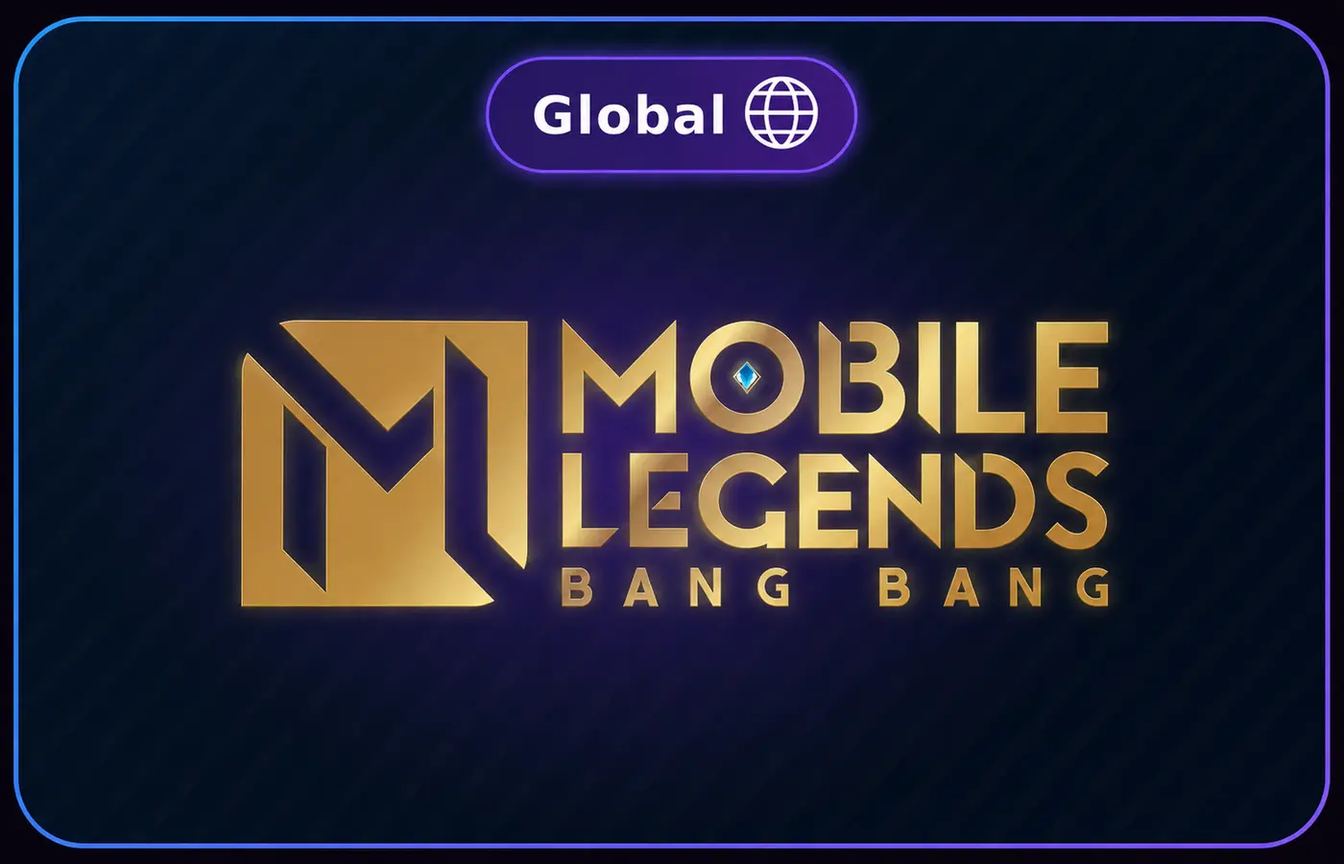
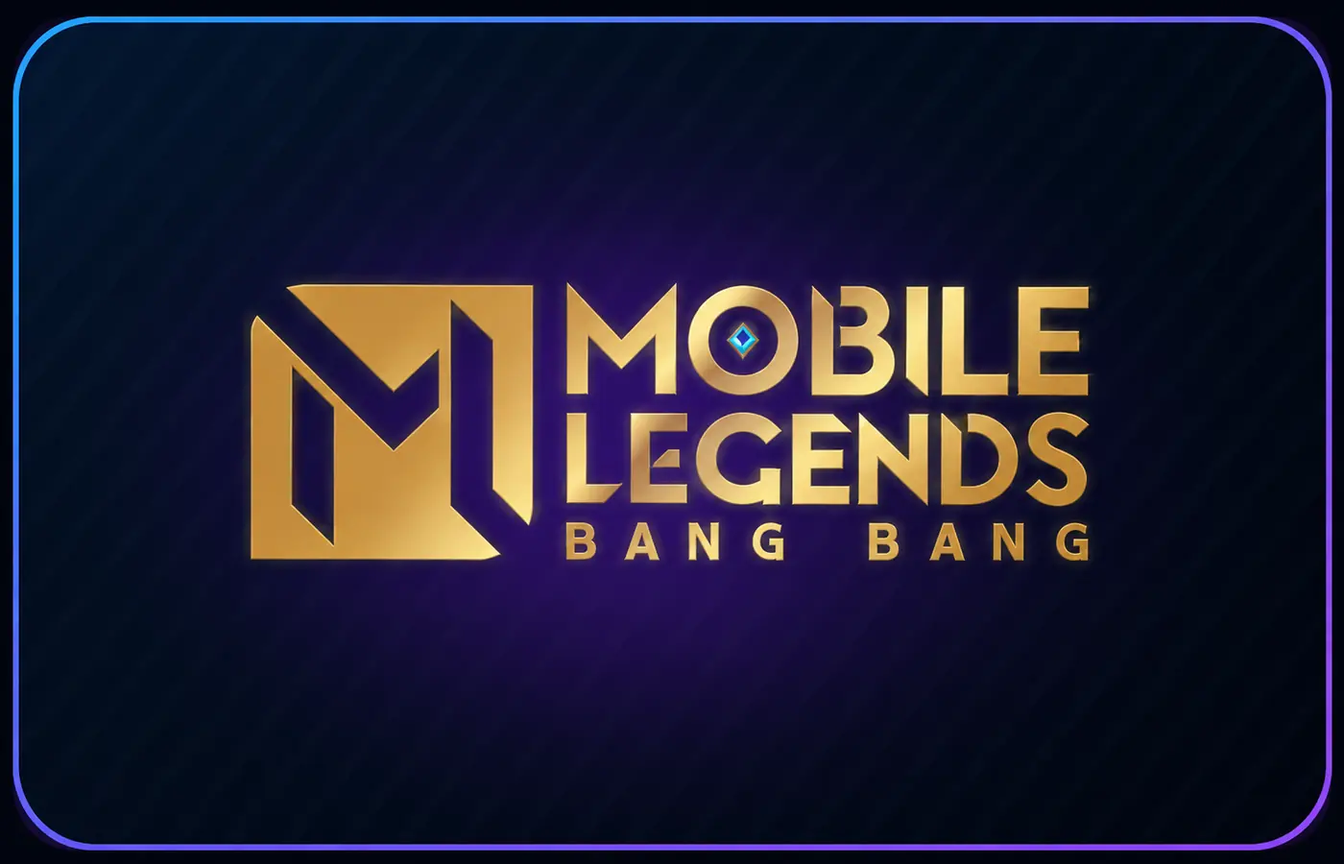
Add files via upload

diff --git a/mobile-legends.html b/mobile-legends.html
@@ -6,7 +6,7 @@
 <meta content="width=device-width,initial-scale=1,viewport-fit=cover" name="viewport"/>
 <meta content="#07101f" name="theme-color"/>
 <title>شحن ألماس Mobile Legends عبر Player ID وServer ID</title>
-<meta content="اشحن ألماس واشتراكات Mobile Legends Global مباشرة عبر Player ID وServer ID، واختر العرض المناسب واطلب بسهولة عبر واتساب أو تلغرام." name="description"/>
+<meta content="اشحن ألماس واشتراكات Mobile Legends مباشرة عبر Player ID وServer ID، واختر العرض المناسب واطلب بسهولة عبر واتساب أو تلغرام." name="description"/>
 <meta content="index, follow, max-image-preview:large, max-snippet:-1, max-video-preview:-1" name="robots"/>
 <link href="https://topupmorocco.com/mobile-legends.html" rel="canonical"/>
 <link href="https://topupmorocco.com/mobile-legends.html" hreflang="ar-MA" rel="alternate"/>
@@ -19,12 +19,12 @@
 <meta content="ar_MA" property="og:locale"/>
 <meta content="TopUpMorocco" property="og:site_name"/>
 <meta content="شحن ألماس Mobile Legends عبر Player ID وServer ID" property="og:title"/>
-<meta content="اشحن ألماس واشتراكات Mobile Legends Global مباشرة عبر Player ID وServer ID، واختر العرض المناسب واطلب بسهولة عبر واتساب أو تلغرام." property="og:description"/>
+<meta content="اشحن ألماس واشتراكات Mobile Legends مباشرة عبر Player ID وServer ID، واختر العرض المناسب واطلب بسهولة عبر واتساب أو تلغرام." property="og:description"/>
 <meta content="https://topupmorocco.com/mobile-legends.html" property="og:url"/>
 <meta content="https://topupmorocco.com/mobile-legends.webp" property="og:image"/>
 <meta content="summary_large_image" name="twitter:card"/>
 <meta content="شحن ألماس Mobile Legends عبر Player ID وServer ID" name="twitter:title"/>
-<meta content="اشحن ألماس واشتراكات Mobile Legends Global مباشرة عبر Player ID وServer ID، واختر العرض المناسب واطلب بسهولة عبر واتساب أو تلغرام." name="twitter:description"/>
+<meta content="اشحن ألماس واشتراكات Mobile Legends مباشرة عبر Player ID وServer ID، واختر العرض المناسب واطلب بسهولة عبر واتساب أو تلغرام." name="twitter:description"/>
 <meta content="https://topupmorocco.com/mobile-legends.webp" name="twitter:image"/>
 <style>
 :root{--bg:#050914;--panel:#0b1323;--line:#223453;--text:#f7f9ff;--muted:#a8b4ca;--purple:#8b4cff;--purple2:#6330d7;--green:#20c76a;--yellow:#ffc83d;--shadow:0 18px 55px #0008}
@@ -103,8 +103,8 @@ html[lang="fr"] .pack{direction:ltr}
     {
       "@type": "Product",
       "@id": "https://topupmorocco.com/mobile-legends.html#product",
-      "name": "شحن ألماس واشتراكات Mobile Legends Global",
-      "description": "اشحن ألماس واشتراكات Mobile Legends Global مباشرة عبر Player ID وServer ID، واختر العرض المناسب واطلب بسهولة عبر واتساب أو تلغرام.",
+      "name": "شحن ألماس واشتراكات Mobile Legends",
+      "description": "اشحن ألماس واشتراكات Mobile Legends مباشرة عبر Player ID وServer ID، واختر العرض المناسب واطلب بسهولة عبر واتساب أو تلغرام.",
       "image": [
         "https://topupmorocco.com/mobile-legends.webp"
       ],
@@ -120,9 +120,9 @@ html[lang="fr"] .pack{direction:ltr}
         "@type": "AggregateOffer",
         "url": "https://topupmorocco.com/mobile-legends.html",
         "priceCurrency": "MAD",
-        "lowPrice": "6",
-        "highPrice": "143",
-        "offerCount": "15",
+        "lowPrice": "10",
+        "highPrice": "390",
+        "offerCount": "29",
         "availability": "https://schema.org/InStock"
       },
       "inLanguage": "ar-MA"
@@ -243,29 +243,43 @@ window.loadTopUpAnalytics=function(){
 </div></header>
 <main>
 <div class="wrap breadcrumb"><a href="/"><span data-ar="الرئيسية" data-fr="Accueil">الرئيسية</span></a><span data-ar="← شحن Mobile Legends" data-fr="← Recharge Mobile Legends">← شحن Mobile Legends</span></div>
-<section class="hero"><div class="wrap"><div class="hero-card"><div class="copy"><span class="tag">MOBILE LEGENDS • GLOBAL</span><h1>شحن ألماس موبايل ليجند عبر <bdi dir="ltr">Player ID</bdi> و<bdi dir="ltr">Server ID</bdi></h1><p><span data-ar="اشحن ألماس واشتراكات Mobile Legends Global مباشرة عبر Player ID وServer ID. تأكد من صحة المعلومات قبل إرسال الطلب." data-fr="Rechargez les diamants et abonnements Mobile Legends Global directement via le Player ID et le Server ID. Vérifiez vos informations avant d’envoyer la commande.">اشحن ألماس واشتراكات Mobile Legends Global مباشرة عبر Player ID وServer ID. تأكد من صحة المعلومات قبل إرسال الطلب.</span></p></div><div aria-label="Mobile Legends Global" class="visual"><img alt="شحن ألماس Mobile Legends Global عبر Player ID وServer ID - TopUpMorocco" class="product-art-page" decoding="async" src="mobile-legends.webp" width="1400" height="900" srcset="mobile-legends-800.webp 800w, mobile-legends.webp 1400w" fetchpriority="high" sizes="(max-width: 820px) 92vw, 520px"/></div></div></div></section>
+<section class="hero"><div class="wrap"><div class="hero-card"><div class="copy"><span class="tag">MOBILE LEGENDS</span><h1>شحن ألماس موبايل ليجند عبر <bdi dir="ltr">Player ID</bdi> و<bdi dir="ltr">Server ID</bdi></h1><p><span data-ar="اشحن ألماس واشتراكات Mobile Legends مباشرة عبر Player ID وServer ID. تأكد من صحة المعلومات قبل إرسال الطلب." data-fr="Rechargez les diamants et abonnements Mobile Legends directement via le Player ID et le Server ID. Vérifiez vos informations avant d’envoyer la commande.">اشحن ألماس واشتراكات Mobile Legends مباشرة عبر Player ID وServer ID. تأكد من صحة المعلومات قبل إرسال الطلب.</span></p></div><div aria-label="Mobile Legends" class="visual"><img alt="شحن ألماس Mobile Legends عبر Player ID وServer ID - TopUpMorocco" class="product-art-page" decoding="async" src="mobile-legends.webp" width="1400" height="900" srcset="mobile-legends-800.webp 800w, mobile-legends.webp 1400w" fetchpriority="high" sizes="(max-width: 820px) 92vw, 520px"/></div></div></div></section>
 <section class="section"><div class="wrap"><div class="heading"><em><span data-ar="العروض المتاحة" data-fr="Offres disponibles">العروض المتاحة</span></em><h2><span data-ar="اختر عرض Mobile Legends" data-fr="Choisissez votre offre Mobile Legends">اختر عرض Mobile Legends</span></h2><p><span data-ar="الأسعار بالدرهم المغربي." data-fr="Prix en dirhams marocains.">الأسعار بالدرهم المغربي.</span></p></div><div class="order-panel"><div class="panel">
 <div class="packs" id="packs">
 <h3 class="pack-category">ألماس Mobile Legends</h3>
-<button class="pack" data-value="22 💎 — 6 DH" type="button"><b dir="auto">22 💎</b><span>6 DH</span></button>
-<button class="pack" data-value="56 💎 — 13 DH" type="button"><b dir="auto">56 💎</b><span>13 DH</span></button>
-<button class="pack" data-value="86 💎 — 18 DH" type="button"><b dir="auto">86 💎</b><span>18 DH</span></button>
-<button class="pack" data-value="112 💎 — 26 DH" type="button"><b dir="auto">112 💎</b><span>26 DH</span></button>
-<button class="pack" data-value="140 💎 — 29 DH" type="button"><b dir="auto">140 💎</b><span>29 DH</span></button>
-<button class="pack" data-value="170 💎 — 33 DH" type="button"><b dir="auto">170 💎</b><span>33 DH</span></button>
-<button class="pack" data-value="240 💎 — 43 DH" type="button"><b dir="auto">240 💎</b><span>43 DH</span></button>
-<button class="pack" data-value="296 💎 — 52 DH" type="button"><b dir="auto">296 💎</b><span>52 DH</span></button>
-<button class="pack" data-value="408 💎 — 70 DH" type="button"><b dir="auto">408 💎</b><span>70 DH</span></button>
-<button class="pack" data-value="568 💎 — 93 DH" type="button"><b dir="auto">568 💎</b><span>93 DH</span></button>
-<button class="pack" data-value="875 💎 — 143 DH" type="button"><b dir="auto">875 💎</b><span>143 DH</span></button>
+<button class="pack" data-value="55 💎 — 10 DH" type="button"><b dir="auto">55 💎</b><span>10 DH</span></button>
+<button class="pack" data-value="86 💎 — 13 DH" type="button"><b dir="auto">86 💎</b><span>13 DH</span></button>
+<button class="pack" data-value="165 💎 — 28 DH" type="button"><b dir="auto">165 💎</b><span>28 DH</span></button>
+<button class="pack" data-value="275 💎 — 42 DH" type="button"><b dir="auto">275 💎</b><span>42 DH</span></button>
+<button class="pack" data-value="343 💎 — 51 DH" type="button"><b dir="auto">343 💎</b><span>51 DH</span></button>
+<button class="pack" data-value="429 💎 — 63 DH" type="button"><b dir="auto">429 💎</b><span>63 DH</span></button>
+<button class="pack" data-value="565 💎 — 80 DH" type="button"><b dir="auto">565 💎</b><span>80 DH</span></button>
+<button class="pack" data-value="600 💎 — 85 DH" type="button"><b dir="auto">600 💎</b><span>85 DH</span></button>
+<button class="pack" data-value="792 💎 — 110 DH" type="button"><b dir="auto">792 💎</b><span>110 DH</span></button>
+<button class="pack" data-value="878 💎 — 122 DH" type="button"><b dir="auto">878 💎</b><span>122 DH</span></button>
+<button class="pack" data-value="963 💎 — 132 DH" type="button"><b dir="auto">963 💎</b><span>132 DH</span></button>
+<button class="pack" data-value="1060 💎 — 146 DH" type="button"><b dir="auto">1060 💎</b><span>146 DH</span></button>
+<button class="pack" data-value="1136 💎 — 157 DH" type="button"><b dir="auto">1136 💎</b><span>157 DH</span></button>
+<button class="pack" data-value="1222 💎 — 168 DH" type="button"><b dir="auto">1222 💎</b><span>168 DH</span></button>
+<button class="pack" data-value="1308 💎 — 180 DH" type="button"><b dir="auto">1308 💎</b><span>180 DH</span></button>
+<button class="pack" data-value="1498 💎 — 202 DH" type="button"><b dir="auto">1498 💎</b><span>202 DH</span></button>
+<button class="pack" data-value="1584 💎 — 214 DH" type="button"><b dir="auto">1584 💎</b><span>214 DH</span></button>
+<button class="pack" data-value="1670 💎 — 226 DH" type="button"><b dir="auto">1670 💎</b><span>226 DH</span></button>
+<button class="pack" data-value="1756 💎 — 237 DH" type="button"><b dir="auto">1756 💎</b><span>237 DH</span></button>
+<button class="pack" data-value="1842 💎 — 249 DH" type="button"><b dir="auto">1842 💎</b><span>249 DH</span></button>
+<button class="pack" data-value="1928 💎 — 260 DH" type="button"><b dir="auto">1928 💎</b><span>260 DH</span></button>
+<button class="pack" data-value="2195 💎 — 285 DH" type="button"><b dir="auto">2195 💎</b><span>285 DH</span></button>
+<button class="pack" data-value="2367 💎 — 308 DH" type="button"><b dir="auto">2367 💎</b><span>308 DH</span></button>
+<button class="pack" data-value="2625 💎 — 344 DH" type="button"><b dir="auto">2625 💎</b><span>344 DH</span></button>
+<button class="pack" data-value="2987 💎 — 390 DH" type="button"><b dir="auto">2987 💎</b><span>390 DH</span></button>
 <h3 class="pack-category">اشتراكات Mobile Legends</h3>
-<button class="pack" data-value="Weekly Elite Pack — 13 DH" type="button"><b dir="auto">Weekly Elite Pack</b><span>13 DH</span></button>
+<button class="pack" data-value="Weekly Elite Pack — 12 DH" type="button"><b dir="auto">Weekly Elite Pack</b><span>12 DH</span></button>
 <button class="pack" data-value="Weekly Diamond Pass — 20 DH" type="button"><b dir="auto">Weekly Diamond Pass</b><span>20 DH</span></button>
-<button class="pack" data-value="Monthly Elite Pack — 49 DH" type="button"><b dir="auto">Monthly Elite Pack</b><span>49 DH</span></button>
-<button class="pack" data-value="Twilight Pass — 109 DH" type="button"><b dir="auto">Twilight Pass</b><span>109 DH</span></button>
+<button class="pack" data-value="Monthly Elite Pack — 44 DH" type="button"><b dir="auto">Monthly Elite Pack</b><span>44 DH</span></button>
+<button class="pack" data-value="Twilight Pass — 83 DH" type="button"><b dir="auto">Twilight Pass</b><span>83 DH</span></button>
 </div><div class="bulk"><span>ⓘ</span><div style="display:grid;grid-template-columns:1fr 1fr;gap:16px;align-items:center">
 <div><strong><span data-ar="خصومات خاصة للطلبات الكبيرة." data-fr="Réductions spéciales pour les grosses commandes.">خصومات خاصة للطلبات الكبيرة.</span></strong><br><span data-ar="تواصل معنا عبر واتساب أو تلغرام للحصول على أفضل الأسعار." data-fr="Contactez-nous via WhatsApp ou Telegram pour obtenir les meilleurs prix.">تواصل معنا عبر واتساب أو تلغرام للحصول على أفضل الأسعار.</span></div>
-<div style="text-align:center"><strong><span data-ar="معلومة مهمة: الشحن مخصص لحسابات Mobile Legends Global ويتم مباشرة عبر Player ID وServer ID. يرجى التأكد من صحة المعلومات قبل إرسال الطلب." data-fr="Information importante : la recharge est destinée aux comptes Mobile Legends Global et s’effectue directement via le Player ID et le Server ID. Veuillez vérifier l’exactitude des informations avant d’envoyer la commande.">معلومة مهمة: الشحن مخصص لحسابات Mobile Legends Global ويتم مباشرة عبر Player ID وServer ID. يرجى التأكد من صحة المعلومات قبل إرسال الطلب.</span></strong></div>
+<div style="text-align:center"><strong><span data-ar="معلومة مهمة: يتم الشحن مباشرة عبر Player ID وServer ID. يرجى التأكد من صحة المعلومات قبل إرسال الطلب." data-fr="Information importante : la recharge s’effectue directement via le Player ID et le Server ID. Veuillez vérifier l’exactitude des informations avant d’envoyer la commande.">معلومة مهمة: يتم الشحن مباشرة عبر Player ID وServer ID. يرجى التأكد من صحة المعلومات قبل إرسال الطلب.</span></strong></div>
 </div></div></div>
 <aside class="panel"><div class="form"><label for="playerId">Player ID *</label><input aria-required="true" autocomplete="off" id="playerId" type="text" spellcheck="false" placeholder="أدخل Player ID" required/><label for="serverId">Server ID *</label><input aria-required="true" autocomplete="off" id="serverId" type="text" spellcheck="false" placeholder="أدخل Server ID" required/><p class="order-options-label"><span data-ar="اطلب عبر واتساب أو تلغرام" data-fr="Commandez via WhatsApp ou Telegram">اطلب عبر واتساب أو تلغرام</span></p><div class="order-actions" role="group" aria-label="اختر واتساب أو تلغرام"><button class="order order-whatsapp" id="order" type="button" data-channel="whatsapp" aria-label="اطلب عبر واتساب"><svg viewBox="0 0 24 24" aria-hidden="true"><path d="M12 2a9.84 9.84 0 0 0-8.42 14.93L2 22l5.2-1.52A9.93 9.93 0 1 0 12 2Zm0 17.98a8 8 0 0 1-4.08-1.12l-.29-.17-3.08.9.92-3-.19-.31A8 8 0 1 1 12 19.98Zm4.39-5.98c-.24-.12-1.42-.7-1.64-.78-.22-.08-.38-.12-.54.12-.16.24-.62.78-.76.94-.14.16-.28.18-.52.06-.24-.12-1.01-.37-1.93-1.19-.71-.64-1.2-1.42-1.34-1.66-.14-.24-.01-.37.1-.49.11-.11.24-.28.36-.42.12-.14.16-.24.24-.4.08-.16.04-.3-.02-.42-.06-.12-.54-1.3-.74-1.78-.2-.47-.4-.41-.54-.42h-.46c-.16 0-.42.06-.64.3-.22.24-.84.82-.84 2 0 1.18.86 2.32.98 2.48.12.16 1.69 2.58 4.1 3.62.57.25 1.02.4 1.37.51.58.18 1.1.16 1.51.1.46-.07 1.42-.58 1.62-1.14.2-.56.2-1.04.14-1.14-.06-.1-.22-.16-.46-.28Z"/></svg><span data-ar="واتساب" data-fr="WhatsApp">واتساب</span></button><button class="order order-telegram" id="orderTelegram" type="button" data-channel="telegram" aria-label="اطلب عبر تلغرام"><svg viewBox="0 0 24 24" aria-hidden="true"><path d="M21.6 2.4 2.9 9.6c-1.3.5-1.3 1.2-.2 1.5l4.8 1.5 1.8 5.6c.2.7.1 1 .9 1l2.7-2.6 5.6 4.1c1 .6 1.7.3 2-.9L24 3.6c.4-1.7-.6-2.5-2.4-1.2ZM9.4 12.3l9.4-5.9c.5-.3.9-.1.5.2l-7.7 7-.3 3.6-1.9-4.9Z"/></svg><span data-ar="تلغرام" data-fr="Telegram">تلغرام</span></button></div><p class="msg" id="msg"></p><p class="note"><span data-ar="سيتم فتح التطبيق الذي تختاره برسالة جاهزة تتضمن العرض وPlayer ID وServer ID." data-fr="L’application choisie s’ouvrira avec un message contenant l’offre, le Player ID et le Server ID.">سيتم فتح التطبيق الذي تختاره برسالة جاهزة تتضمن العرض وPlayer ID وServer ID.</span></p></div><ul class="features"><li><span data-ar="⚡ إرسال الطلب بخطوات قليلة" data-fr="⚡ Commande en quelques étapes">⚡ إرسال الطلب بخطوات قليلة</span></li><li><span data-ar="🛡 مراجعة Player ID وServer ID قبل الشحن" data-fr="🛡 Vérification du Player ID et du Server ID avant la recharge">🛡 مراجعة Player ID وServer ID قبل الشحن</span></li><li><span data-ar="💬 متابعة الطلب مباشرة عبر واتساب أو تلغرام" data-fr="💬 Suivi direct de la commande via WhatsApp ou Telegram">💬 متابعة الطلب مباشرة عبر واتساب أو تلغرام</span></li></ul></aside></div>
 <div class="payments"><div class="heading"><em><span data-ar="طرق الدفع" data-fr="Moyens de paiement">طرق الدفع</span></em></div><div class="pay-list"><span>CIH Bank</span><span>Attijariwafa Bank</span><span>Cash Plus</span><span>Orange Money</span><span>BMCE | BANK OF AFRICA</span><span>PayPal</span></div></div>
@@ -290,7 +304,7 @@ window.loadTopUpAnalytics=function(){
 <script>
 const phone="212773125830";let selected="";const packs=document.getElementById("packs"),msg=document.getElementById("msg"),playerId=document.getElementById("playerId"),serverId=document.getElementById("serverId");
 packs.addEventListener("click",e=>{const b=e.target.closest(".pack");if(!b)return;packs.querySelectorAll(".pack").forEach(x=>x.classList.remove("active"));b.classList.add("active");selected=b.dataset.value;msg.textContent=""});
-document.getElementById("order").addEventListener("click",()=>{const player=playerId.value.trim(),server=serverId.value.trim();if(!selected){msg.textContent="اختر العرض أولًا.";return}if(!player){msg.textContent="أدخل Player ID.";playerId.focus();return}if(!server){msg.textContent="أدخل Server ID.";serverId.focus();return}const text=`السلام عليكم فريق TopUpMorocco،\n\nأود إتمام الطلب التالي:\n\nالمنتج: \u2066Mobile Legends (Global)\u2069\nالعرض المختار: \u2066${selected}\u2069\nPlayer ID: \u2066${player}\u2069\nServer ID: \u2066${server}\u2069\n\nمع الشكر.`;window.open(`https://wa.me/${phone}?text=${encodeURIComponent(text)}`,"_blank","noopener")});
+document.getElementById("order").addEventListener("click",()=>{const player=playerId.value.trim(),server=serverId.value.trim();if(!selected){msg.textContent="اختر العرض أولًا.";return}if(!player){msg.textContent="أدخل Player ID.";playerId.focus();return}if(!server){msg.textContent="أدخل Server ID.";serverId.focus();return}const text=`السلام عليكم فريق TopUpMorocco،\n\nأود إتمام الطلب التالي:\n\nالمنتج: \u2066Mobile Legends\u2069\nالعرض المختار: \u2066${selected}\u2069\nPlayer ID: \u2066${player}\u2069\nServer ID: \u2066${server}\u2069\n\nمع الشكر.`;window.open(`https://wa.me/${phone}?text=${encodeURIComponent(text)}`,"_blank","noopener")});
 </script>
 
 <div aria-label="Privacy choices / اختيارات الخصوصية" class="cookie-banner" hidden id="cookieBanner" role="region">

diff --git a/index.html b/index.html
@@ -163,7 +163,7 @@ window.loadTopUpAnalytics=function(){
 <section class="section" id="products"><div class="wrap"><div class="heading"><em><span data-ar="خدماتنا" data-fr="Nos services">خدماتنا</span></em><h2><span data-ar="المنتجات المتاحة" data-fr="Produits disponibles">المنتجات المتاحة</span></h2><p><span data-ar="اضغط على المنتج لعرض الأسعار والطلب." data-fr="Cliquez sur un produit pour voir les prix et commander.">اضغط على المنتج لعرض الأسعار والطلب.</span></p></div><div class="search"><span>⌕</span><input aria-label="البحث عن منتج / Rechercher un produit" data-placeholder-ar="ابحث عن منتج..." data-placeholder-fr="Rechercher un produit..." id="search" placeholder="ابحث عن منتج..." type="search"/></div><div class="grid" id="grid">
 <a aria-label="عرض باقات شحن Free Fire" class="card ff" data-search="free fire diamonds فري فاير جواهر" href="free-fire.html"><div class="card-top"><img alt="شحن جواهر فري فاير في المغرب - TopUpMorocco" class="product-art" decoding="async" loading="lazy" src="free-fire.webp" width="1400" height="900" srcset="free-fire-800.webp 800w, free-fire.webp 1400w" sizes="(max-width: 600px) 92vw, (max-width: 900px) 46vw, 374px"/></div><div class="card-body"><h3>Free Fire Diamonds</h3><p><span data-ar="شحن الجواهر مباشرة عن طريق ID اللاعب." data-fr="Recharge directe des diamants avec l’ID du joueur.">شحن الجواهر مباشرة عن طريق ID اللاعب.</span></p><span class="card-link"><span data-ar="عرض الباقات" data-fr="Voir les packs">عرض الباقات</span></span></div></a>
 <a aria-label="عرض عروض شحن PUBG MOBILE" class="card pubg" data-search="pubg mobile uc ببجي موبايل شدات elite pass prime global" href="pubg-mobile.html"><div class="card-top"><img alt="شحن شدات ببجي UC لحساب Global عبر Player ID - TopUpMorocco" class="product-art" decoding="async" loading="lazy" src="pubg-mobile-card.webp" width="1400" height="900" srcset="pubg-mobile-card-800.webp 800w, pubg-mobile-card.webp 1400w" sizes="(max-width: 600px) 92vw, (max-width: 900px) 46vw, 374px"/></div><div class="card-body"><h3>PUBG MOBILE</h3><p><span data-ar="شحن شدات ببجي UC والاشتراكات مباشرة عبر Player ID." data-fr="Recharge d’UC et d’abonnements via Player ID.">شحن شدات ببجي UC والاشتراكات مباشرة عبر Player ID.</span></p><span class="card-link"><span data-ar="عرض العروض" data-fr="Voir les offres">عرض العروض</span></span></div></a>
-<a aria-label="عرض عروض شحن Mobile Legends" class="card mobile-legends" data-search="mobile legends bang bang mlbb موبايل ليجند ألماس diamonds global weekly elite pack weekly diamond pass monthly elite pack twilight pass" href="mobile-legends.html"><div class="card-top"><img alt="شحن ألماس Mobile Legends Global عبر Player ID وServer ID - TopUpMorocco" class="product-art" decoding="async" loading="lazy" src="mobile-legends.webp" width="1400" height="900" srcset="mobile-legends-800.webp 800w, mobile-legends.webp 1400w" sizes="(max-width: 600px) 92vw, (max-width: 900px) 46vw, 374px"/></div><div class="card-body"><h3>Mobile Legends</h3><p><span data-ar="شحن الألماس والاشتراكات لحسابات Global عبر Player ID وServer ID." data-fr="Recharge de diamants et d’abonnements Global via Player ID et Server ID.">شحن الألماس والاشتراكات لحسابات Global عبر Player ID وServer ID.</span></p><span class="card-link"><span data-ar="عرض العروض" data-fr="Voir les offres">عرض العروض</span></span></div></a>
+<a aria-label="عرض عروض شحن Mobile Legends" class="card mobile-legends" data-search="mobile legends bang bang mlbb موبايل ليجند ألماس diamonds weekly elite pack weekly diamond pass monthly elite pack twilight pass" href="mobile-legends.html"><div class="card-top"><img alt="شحن ألماس Mobile Legends عبر Player ID وServer ID - TopUpMorocco" class="product-art" decoding="async" loading="lazy" src="mobile-legends.webp" width="1400" height="900" srcset="mobile-legends-800.webp 800w, mobile-legends.webp 1400w" sizes="(max-width: 600px) 92vw, (max-width: 900px) 46vw, 374px"/></div><div class="card-body"><h3>Mobile Legends</h3><p><span data-ar="شحن الألماس والاشتراكات مباشرة عبر Player ID وServer ID." data-fr="Recharge de diamants et d’abonnements via Player ID et Server ID.">شحن الألماس والاشتراكات مباشرة عبر Player ID وServer ID.</span></p><span class="card-link"><span data-ar="عرض العروض" data-fr="Voir les offres">عرض العروض</span></span></div></a>
 <a aria-label="عرض عروض شحن Whiteout Survival" class="card whiteout-survival" data-search="whiteout survival frost stars وايت اوت سرفايفل فروست ستار شحن" href="whiteout-survival.html"><div class="card-top"><img alt="شحن Frost Stars للعبة Whiteout Survival عبر Player ID - TopUpMorocco" class="product-art" decoding="async" loading="lazy" src="whiteout-survival.webp" width="1400" height="900" srcset="whiteout-survival-800.webp 800w, whiteout-survival.webp 1400w" sizes="(max-width: 600px) 92vw, (max-width: 900px) 46vw, 374px"/></div><div class="card-body"><h3>Whiteout Survival</h3><p><span data-ar="شحن Frost Stars مباشرة عبر Player ID." data-fr="Recharge de Frost Stars directement via le Player ID.">شحن Frost Stars مباشرة عبر Player ID.</span></p><span class="card-link"><span data-ar="عرض العروض" data-fr="Voir les offres">عرض العروض</span></span></div></a>
 <a aria-label="عرض عروض شحن Honor of Kings" class="card honor-of-kings" data-search="honor of kings hok tokens هونر اوف كينغز توكنز شحن global player id" href="honor-of-kings.html"><div class="card-top"><img alt="شحن Tokens للعبة Honor of Kings عبر Player ID - TopUpMorocco" class="product-art" decoding="async" loading="lazy" src="honor-of-kings.webp" width="1400" height="900" srcset="honor-of-kings-800.webp 800w, honor-of-kings.webp 1400w" sizes="(max-width: 600px) 92vw, (max-width: 900px) 46vw, 374px"/></div><div class="card-body"><h3>Honor of Kings</h3><p><span data-ar="شحن Tokens مباشرة عبر Player ID." data-fr="Recharge de Tokens directement via le Player ID.">شحن Tokens مباشرة عبر Player ID.</span></p><span class="card-link"><span data-ar="عرض العروض" data-fr="Voir les offres">عرض العروض</span></span></div></a>
 <a aria-label="عرض عروض شحن Delta Force" class="card delta-force" data-search="delta force garena mena delta coins شحن دلتا فورس عملات دلتا player id" href="delta-force.html"><div class="card-top"><img alt="شحن Delta Coins للعبة Delta Force MENA عبر Player ID - TopUpMorocco" class="product-art" decoding="async" loading="lazy" src="delta-force.webp" width="1400" height="900" srcset="delta-force-800.webp 800w, delta-force.webp 1400w" sizes="(max-width: 600px) 92vw, (max-width: 900px) 46vw, 374px"/></div><div class="card-body"><h3 dir="ltr">Delta Force</h3><p><span data-ar="شحن Delta Coins مباشرة عبر Player ID." data-fr="Recharge de Delta Coins directement via le Player ID.">شحن <bdi dir="ltr">Delta Coins</bdi> مباشرة عبر <bdi dir="ltr">Player ID</bdi>.</span></p><span class="card-link"><span data-ar="عرض العروض" data-fr="Voir les offres">عرض العروض</span></span></div></a>
